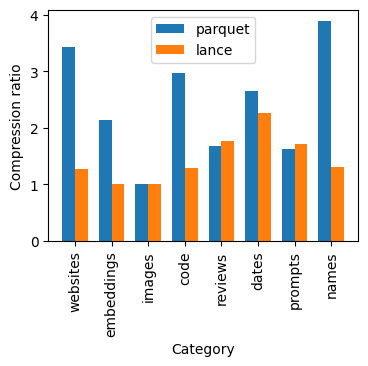
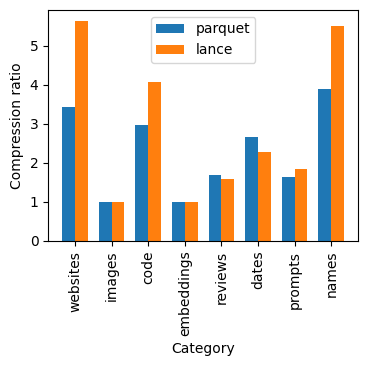
WIP

diff --git a/file_2_1/experiments/random-take/src/full_scan.rs b/file_2_1/experiments/random-take/src/full_scan.rs
@@ -26,7 +26,9 @@ use parquet::{
         ParquetRecordBatchStreamBuilder, ProjectionMask,
     },
     file::{
-        metadata::ParquetMetaDataReader, page_index::index::Index, properties::WriterProperties,
+        metadata::ParquetMetaDataReader,
+        page_index::index::Index,
+        properties::{EnabledStatistics, WriterProperties},
     },
 };
 use random_take_bench::{
@@ -175,15 +177,17 @@ async fn write_pq_test_file(
     let test_data = read_test_data(src_path).await;
     let writer = workdir.writer(dest_path);
     let write_batch_size = get_parquet_write_batch_size(page_size_kb, test_data.column(0));
-    let options = ArrowWriterOptions::default().with_properties(
-        WriterProperties::builder()
-            .set_bloom_filter_enabled(false)
-            .set_max_row_group_size(row_group_size)
+    let mut properties_builder = WriterProperties::builder()
+        .set_bloom_filter_enabled(false)
+        .set_statistics_enabled(EnabledStatistics::Chunk)
+        .set_max_row_group_size(row_group_size)
+        .set_compression(parquet::basic::Compression::SNAPPY);
+    if page_size_kb != 0 {
+        properties_builder = properties_builder
             .set_data_page_size_limit(page_size_kb * 1024)
-            .set_write_batch_size(write_batch_size)
-            .set_compression(parquet::basic::Compression::SNAPPY)
-            .build(),
-    );
+            .set_write_batch_size(write_batch_size);
+    }
+    let options = ArrowWriterOptions::default().with_properties(properties_builder.build());
     let mut writer =
         AsyncArrowWriter::try_new_with_options(writer, test_data.schema(), options).unwrap();
 
@@ -305,10 +309,11 @@ async fn bench_parquet_one(path: Path, batch_size: Option<usize>) -> (usize, usi
 // so that we don't trigger thrashing
 fn get_batch_size(category: &str) -> Option<usize> {
     match category {
-        "embeddings" => Some(1024),
-        "websites" | "code" => Some(128),
+        "embeddings" | "code" => Some(1024),
+        "websites" => Some(128),
         "images" => Some(32),
         "dates" => Some(2 * 1024 * 1024),
+        "names" => Some(2 * 1024 * 1024),
         _ => None,
     }
 }
@@ -330,7 +335,7 @@ async fn run_bench_parquet(
 
     let batch_size = get_batch_size(category);
 
-    let (iterations, disk_bytes, mem_bytes) = if ARGS.duration_seconds == 0.0 {
+    let (iterations, one_disk_bytes, all_disk_bytes, mem_bytes) = if ARGS.duration_seconds == 0.0 {
         let path = test_pq_file_path(category, 0, row_group_size, page_size_kb);
         let path = work_dir.child_path("parquets").child(path);
 
@@ -342,12 +347,14 @@ async fn run_bench_parquet(
             let disk_bytes = f.metadata().await.unwrap().len() as usize;
             let reader = ParquetMetaDataReader::new().with_page_indexes(true);
             let metadata = reader.load_and_finish(&mut f, disk_bytes).await.unwrap();
-            let col_idx = metadata.column_index().unwrap();
+            let index = metadata.column_index().unwrap();
 
             let mut num_pages = 0;
-            for rg_idx in col_idx {
-                for pg_idx in rg_idx {
-                    num_pages += match pg_idx {
+            let mut num_row_groups = 0;
+            for rg_idx in index {
+                num_row_groups += 1;
+                for col_idx in rg_idx {
+                    num_pages += match col_idx {
                         Index::BOOLEAN(b) => b.indexes.len(),
                         Index::BYTE_ARRAY(b) => b.indexes.len(),
                         Index::DOUBLE(b) => b.indexes.len(),
@@ -356,15 +363,18 @@ async fn run_bench_parquet(
                         Index::INT32(b) => b.indexes.len(),
                         Index::INT64(b) => b.indexes.len(),
                         Index::INT96(b) => b.indexes.len(),
-                        Index::NONE => unreachable!(),
+                        Index::NONE => 0,
                     };
                 }
             }
-            log(format!("There are {} pages", num_pages));
+            log(format!(
+                "There are {} pages and {} row groups",
+                num_pages, num_row_groups
+            ));
         }
 
         let (disk_bytes, mem_bytes) = bench_parquet_one(path, batch_size).await;
-        (1, disk_bytes, mem_bytes)
+        (1, disk_bytes, disk_bytes, mem_bytes)
     } else {
         let task_iter = (0..ARGS.num_files)
             .cycle()
@@ -379,10 +389,11 @@ async fn run_bench_parquet(
         let tasks = stream::iter(task_iter).buffer_unordered(concurrency);
 
         tasks
-            .fold((0, 0, 0), |acc, (disk_bytes, mem_bytes)| async move {
-                let (iterations, acc_disk_bytes, acc_mem_bytes) = acc;
+            .fold((0, 0, 0, 0), |acc, (disk_bytes, mem_bytes)| async move {
+                let (iterations, _, acc_disk_bytes, acc_mem_bytes) = acc;
                 (
                     iterations + 1,
+                    disk_bytes,
                     disk_bytes + acc_disk_bytes,
                     mem_bytes + acc_mem_bytes,
                 )
@@ -394,20 +405,21 @@ async fn run_bench_parquet(
 
     log(format!(
         "Ran {} iterations and read {} memory bytes and {} disk bytes in {} seconds",
-        iterations, mem_bytes, disk_bytes, elapsed
+        iterations, mem_bytes, all_disk_bytes, elapsed
     ));
 
     let iterations_per_second = iterations as f64 / elapsed;
     let mem_bytes_per_second = mem_bytes as f64 / elapsed;
-    let disk_bytes_per_second = disk_bytes as f64 / elapsed;
+    let disk_bytes_per_second = all_disk_bytes as f64 / elapsed;
     println!(
-        "{},{},{},{},{},{}",
+        "{},{},{},{},{},{},{}",
         page_size_kb,
         row_group_size,
         category,
         iterations_per_second,
         mem_bytes_per_second,
-        disk_bytes_per_second
+        disk_bytes_per_second,
+        one_disk_bytes,
     );
 }
 
@@ -563,14 +575,14 @@ async fn run_bench_lance(work_dir: &WorkDir, category: &str, version: LanceFileV
     let scheduler_config = SchedulerConfig::max_bandwidth(&store);
     let scheduler = ScanScheduler::new(store, scheduler_config);
 
-    let (iterations, disk_bytes, mem_bytes) = if ARGS.duration_seconds == 0.0 {
+    let (iterations, one_disk_bytes, all_disk_bytes, mem_bytes) = if ARGS.duration_seconds == 0.0 {
         let path = test_lance_file_path(category, 0);
         let path = work_dir
             .child_path(&format!("lances_{}", version))
             .child(path);
 
         let (disk_bytes, mem_bytes) = bench_lance_one(scheduler, 0, path, batch_size).await;
-        (1, disk_bytes, mem_bytes)
+        (1, disk_bytes, disk_bytes, mem_bytes)
     } else {
         let task_iter = (0..ARGS.num_files)
             .cycle()
@@ -594,10 +606,11 @@ async fn run_bench_lance(work_dir: &WorkDir, category: &str, version: LanceFileV
         let tasks = stream::iter(task_iter).buffer_unordered(concurrency);
 
         tasks
-            .fold((0, 0, 0), |acc, (disk_bytes, mem_bytes)| async move {
-                let (iterations, acc_disk_bytes, acc_mem_bytes) = acc;
+            .fold((0, 0, 0, 0), |acc, (disk_bytes, mem_bytes)| async move {
+                let (iterations, _, acc_disk_bytes, acc_mem_bytes) = acc;
                 (
                     iterations + 1,
+                    disk_bytes,
                     disk_bytes + acc_disk_bytes,
                     mem_bytes + acc_mem_bytes,
                 )
@@ -609,15 +622,19 @@ async fn run_bench_lance(work_dir: &WorkDir, category: &str, version: LanceFileV
 
     log(format!(
         "Ran {} iterations and read {} memory bytes and {} disk bytes in {} seconds",
-        iterations, mem_bytes, disk_bytes, elapsed
+        iterations, mem_bytes, all_disk_bytes, elapsed
     ));
 
     let iterations_per_second = iterations as f64 / elapsed;
     let mem_bytes_per_second = mem_bytes as f64 / elapsed;
-    let disk_bytes_per_second = disk_bytes as f64 / elapsed;
+    let disk_bytes_per_second = all_disk_bytes as f64 / elapsed;
     println!(
-        "0,0,{},{},{},{}",
-        category, iterations_per_second, mem_bytes_per_second, disk_bytes_per_second
+        "0,0,{},{},{},{},{}",
+        category,
+        iterations_per_second,
+        mem_bytes_per_second,
+        disk_bytes_per_second,
+        one_disk_bytes,
     );
 }
 
@@ -627,13 +644,14 @@ async fn bench_lance(work_dir: &WorkDir, category: &str, version: LanceFileVersi
     run_bench_lance(work_dir, category, version).await;
 }
 
-fn get_row_group_sizes(category: &str) -> Vec<usize> {
-    match category {
-        "embeddings" => vec![1024, 1024 * 10, 1024 * 100],
-        "websites" | "code" => vec![1024, 1024 * 10],
-        "images" => vec![100, 256, 512],
-        _ => vec![1024, 1024 * 10, 1024 * 100, 1024 * 1024],
-    }
+fn get_row_group_sizes(_category: &str) -> Vec<usize> {
+    vec![1024, 1024 * 10, 1024 * 100, 1024 * 1024]
+    // match category {
+    //     "embeddings" => vec![1024, 1024 * 10, 1024 * 100],
+    //     "code" => vec![1024, 1024 * 10],
+    //     "images" | "websites" => vec![1024, 1024 * 10, 1024 * 100],
+    //     _ => vec![1024, 1024 * 10, 1024 * 100, 1024 * 1024],
+    // }
 }
 
 #[tokio::main(flavor = "multi_thread")]
@@ -656,7 +674,7 @@ async fn main() {
         SHOULD_LOG.store(true, std::sync::atomic::Ordering::Release);
     } else {
         // We only print the CSV header in quiet mode
-        println!("page_size_kb,row_group_size,category,iterations_per_second,mem_bytes_per_second,disk_bytes_per_second");
+        println!("page_size_kb,row_group_size,category,iterations_per_second,mem_bytes_per_second,disk_bytes_per_second,file_size_bytes");
     }
 
     if ARGS.log_reads {
@@ -669,7 +687,7 @@ async fn main() {
 
     let page_sizes = match (ARGS.format, ARGS.page_size_kb) {
         (FileFormat::Parquet, Some(page_size_kb)) => vec![page_size_kb],
-        (FileFormat::Parquet, None) => vec![8, 32, 64, 256, 1024],
+        (FileFormat::Parquet, None) => vec![8, 32, 64, 256, 0],
         _ => vec![0],
     };
 

diff --git a/file_2_1/experiments/random-take/src/main.rs b/file_2_1/experiments/random-take/src/main.rs
@@ -13,7 +13,7 @@ use arrow_buffer::ScalarBuffer;
 use bytes::{Bytes, BytesMut};
 use clap::Parser;
 use futures::FutureExt;
-use lance_core::cache::FileMetadataCache;
+use lance_core::cache::{DeepSizeOf, FileMetadataCache};
 use lance_encoding::{
     decoder::{DecoderPlugins, FilterExpression},
     EncodingsIo,
@@ -174,6 +174,10 @@ struct Args {
     #[arg(long, default_value_t = false)]
     non_nullable: bool,
 
+    /// If true, print how much memory is used by the search cache and then exit
+    #[arg(long, default_value_t = false)]
+    mem_only: bool,
+
     /// The file format to use
     #[arg(long, value_enum, default_value_t = FileFormat::Parquet)]
     format: FileFormat,
@@ -287,6 +291,11 @@ async fn lance_setup(
         .unwrap();
         files_lookup.push(Arc::new(reader));
     }
+
+    if args.mem_only {
+        println!("{}", cache.deep_size_of());
+    }
+
     files_lookup
 }
 
@@ -652,6 +661,10 @@ async fn bench_lance(args: &Args, work_dir: &WorkDir, file_version: LanceFileVer
     log("Loading file readers");
     let readers_lookup = lance_setup(args, work_dir, file_version).await;
 
+    if args.mem_only {
+        return 0.0;
+    }
+
     // Don't set LOG_READS until this point to avoid logging the setup
     if args.log_reads {
         LOG_READS.store(true, std::sync::atomic::Ordering::Release);
@@ -697,6 +710,10 @@ async fn main() {
         FileFormat::Lance2_0 => bench_lance(&args, &work_dir, LanceFileVersion::V2_0).await,
         FileFormat::Lance2_1 => bench_lance(&args, &work_dir, LanceFileVersion::V2_1).await,
     };
+
+    if args.mem_only {
+        return;
+    }
 
     log(format!(
         "Rows taken per second across {} seconds: {}",

diff --git a/file_2_1/experiments/random-take/src/parq.rs b/file_2_1/experiments/random-take/src/parq.rs
@@ -3,7 +3,11 @@
 use arrow_array::RecordBatchReader;
 use io::WorkDir;
 use object_store::path::Path;
-use parquet::{arrow::AsyncArrowWriter, basic::Compression, file::properties::WriterProperties};
+use parquet::{
+    arrow::AsyncArrowWriter,
+    basic::Compression,
+    file::properties::{EnabledStatistics, WriterProperties},
+};
 
 use crate::{datagen::get_datagen, log, DataTypeChoice};
 
@@ -118,6 +122,7 @@ pub async fn make_parquet_file(
         .set_dictionary_enabled(dictionary)
         .set_max_row_group_size(row_group_size as usize)
         .set_data_page_size_limit(page_size_kb as usize * 1024)
+        .set_statistics_enabled(EnabledStatistics::None)
         .set_write_batch_size(write_batch_size)
         .build();
 
